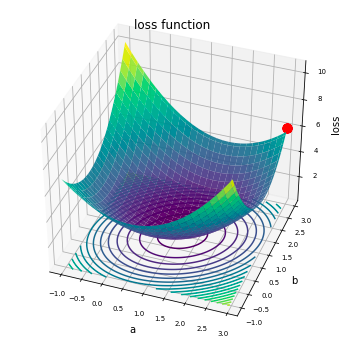
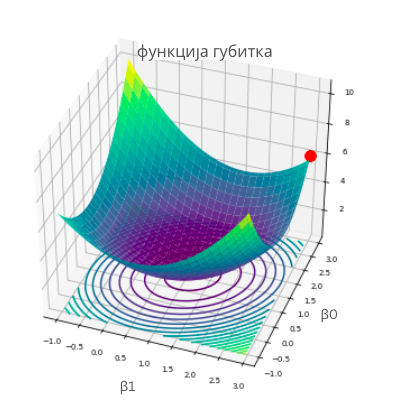
Popravke u lekciji Gradijentni spust

diff --git a/_sources/06_Linearna regresija/062_Gradijentni spust.rst b/_sources/06_Linearna regresija/062_Gradijentni spust.rst
@@ -4,18 +4,6 @@
 .. |open| image:: ../../_images/algk2.png
             :width: 100px
 
-.. |gsf1| image:: ../../_images/gsf1.png
-            :width: 180px
-
-.. |gsf2| image:: ../../_images/gsf2.png
-            :width: 180px
-
-.. |gsf3| image:: ../../_images/gsf3.png
-            :width: 180px
-
-.. |gsf0| image:: ../../_images/gsf0.png
-            :width: 180px
-
 .. infonote::
 
  У овој лекцији упознаћемо градијентни спуст, технику која нам помаже да пронађемо параметре за које функција средњеквадратне грешке има најмању 
@@ -32,14 +20,12 @@
     :width: 450
     :align: center
 
-(слика је преузета са https://creazilla.com/nodes/37642-river-flowing-through-the-mountains-clipart)
-
 -------
 
-Мало физичке активности у сред приче о линеарној регресији није на одмет, али наслућујеш да постоји још нешто. Функција срењеквадратне грешке 
-зависи од избора параметара ꞵ0 и ꞵ1 - за различите комбинације вредности ꞵ0 и ꞵ1 добијамо различите вредности грешке. Ако нацртамо график ове 
-функције, на пример, дуж x-осе забележимо вредности ꞵ0, дуж y-осе забележимо вредности ꞵ1, а дуж z-осе вредности грешке, добићемо график који 
-изгледа као на доњој слици. Ако црвеном тачком обележимо неки насумични избор параметара ꞵ0 и ꞵ1, да бисмо стигли до тачке за коју је вредност 
+Мало физичке активности у сред приче о линеарној регресији није на одмет, али наслућујеш да постоји још нешто. Функција средњеквадратне грешке 
+зависи од избора параметара :math:`\beta_0` и :math:`\beta_0` - за различите комбинације вредности :math:`\beta_0` и :math:`\beta_1` добијамо различите вредности грешке. 
+Ако нацртамо график ове функције, на пример, дуж x-осе забележимо вредности :math:`\beta_0`, дуж y-осе забележимо вредности :math:`\beta_1`, а дуж z-осе вредности грешке, добићемо график који 
+изгледа као на доњој слици. Ако црвеном тачком обележимо неки насумични избор параметара :math:`\beta_0` и :math:`\beta_1`, да бисмо стигли до тачке за коју је вредност 
 грешке најмања заиста морамо да се спустимо у подножје ове површи. Зато је ”техника” коју смо развили у претходном примеру врло релеванта. 
 Потребно је само да осмислимо како да тражимо најстрмије правце спуста. У томе ће нам помоћи изводи функција. 
 
@@ -49,24 +35,22 @@
 
 *График функције средњеквадратне грешке*
 
-**(ТОДО: прилагодити обележја а и б)**
-
 -------
 
 .. infonote::
 
  Најмања вредност једне функције се зове минимум. 
 
-Посматрајмо сада квадратну функција f(x) = (x-1)2 чији је график приказан на доњој слици и покушајмо да техником спуста стигнемо до њеног минимума - 
-он је у тачки x=1 и износи 0.  
+Посматрајмо сада квадратну функција :math:`f(x) = (x-1)^2` чији је график приказан на доњој слици и покушајмо да техником спуста стигнемо до њеног минимума - 
+он је у тачки :math:`x=1` и износи 0.  
 
 .. image:: ../../_images/gs3.png
     :width: 500
     :align: center
 
-Уочимо и црвену тачку која одговара вредности x=3 (насумично смо је одабрали) и која означава стартну позицију кретања ка минимуму ове функције. 
+Уочимо и црвену тачку која одговара вредности :math:`x=3` (насумично смо је одабрали) и која означава стартну позицију кретања ка минимуму ове функције. 
 Делује да је наранџастом линијом обележен најстрмији правац дуж кога можемо да започнемо спуст. Занимљиво је да ова линија заправо представља 
-тангенту наше функције у тачки x=3. Ако дуж овог правца направимо корак, наћи ћемо се у новој тачки. Обележимо и њену вредност црвеном бојом и 
+тангенту наше функције у тачки :math:`x=3`. Ако дуж овог правца направимо корак, наћи ћемо се у новој тачки. Обележимо и њену вредност црвеном бојом и 
 прикажимо је на графику. Она је мало ближе очекиваном минимуму.
 
 .. image:: ../../_images/gs4.png
@@ -79,31 +63,39 @@
     :width: 500
     :align: center
 
-Након одређеног броја корака, овај поступак ће нас довести до минимума функције тј. до тачке x=1.
+Након одређеног броја корака, овај поступак ће нас довести до минимума функције тј. до тачке :math:`x=1`.
 
 .. image:: ../../_images/gs6.png
     :width: 500
     :align: center
 
-У Google Coalb свесци која прати овај материјал можеш и сам да покренеш анимацију и увериш се да је тако. Довољно је да кликнеш на дугме |open| 
+|
+
+У Google Colab свесци која прати овај материјал можеш и сам да покренеш анимацију и увериш се да је тако. Довољно је да кликнеш на дугме |open| 
 и отвориш је. 
 
-Пре него што детаљније прођемо кроз поступак који смо описали, подсетимо се какве су то праве тангенте.  За неку фиксирану тачку x коефицијент 
-правца тангенте у тачки x једнак је вредности првог извода извода функције у тачки x. Први извод наше функције је функција f’(x) = 2x-2 и у 
-почетној тачки x=3 вредност извода је f’(x) = 4.  То значи да тангента има једначину y = 4x - 8 (број -8 смо добили из услова да ова права 
+|
+
+Пре него што детаљније прођемо кроз поступак који смо описали, подсетимо се какве су то праве тангенте.  За неку фиксирану тачку :math:`x` коефицијент 
+правца тангенте у тачки :math:`x` једнак је вредности првог извода извода функције у тачки :math:`x`. Први извод наше функције је функција :math:`f'(x) = 2x-2` и у 
+почетној тачки :math:`x=3` вредност извода је :math:`f'(x) = 4`.  То значи да тангента има једначину :math:`y = 4x - 8` (број -8 смо добили из услова да ова права 
 мора да садржи тачку (3, 4)).  Зато можемо и да кажемо да тангента има правац који одговара изводу функције у некој тачки, а за само кретање 
 у том правцу да је кретање дуж правца извода у тој тачки.  Сада је дилема, да ли се крећемо уз или низ  тј. да ли пратимо правац извода или 
 његов супротан правац? Па, пошто желимо да се спуштамо ка минимуму треба да пратимо правац супротан правцу извода функције. 
 
-Ако сада са x0 oбележимо почетну тачку, нову тачку x1 добили смо тако што смо направили корак дуж правца извода функције у тачки x0. Ако са α 
-обележимо дужину корака, вредност нове тачке  x1 израчунавамо као x1 = x0 - α f’(x0). Пошто поступак понављамо, вредност тачке x2  израчунавамо 
-као x2 = x1 - α f’(x1) и настављамо редом са израчунавањима x3 = x2 - α f’(x2),  x4 = x3 - α f’(x3), …  Поступак понављамо све док за две 
-узастопне вредности, рецимо за x34 и x35, вредности функције нису довољно близу тј. док апсолутна вредност разлике између f(x35) - f(x34) није мања од неке 
+|
+
+Ако сада са :math:`x_0` oбележимо почетну тачку, нову тачку :math:`x_1` добили смо тако што смо направили корак дуж правца извода функције у тачки :math:`x_0`. Ако са :math:`\alpha` 
+обележимо дужину корака, вредност нове тачке  :math:`x_1` израчунавамо као :math:`x_1 = x_0 - \alpha f'(x_0)`. Пошто поступак понављамо, вредност тачке :math:`x_2` израчунавамо 
+као :math:`x_2 = x_1 - \alpha f'(x_1)` и настављамо редом са израчунавањима :math:`x_3 = x_2 - \alpha f'(x_2)`,  :math:`x_4 = x_3 - \alpha f'(x_3)`, ...  Поступак понављамо све док за две 
+узастопне вредности, рецимо за :math:`x_34` и :math:`x_35`, вредности функције нису довољно близу тј. док апсолутна вредност разлике :math:`f(x_35) - f(x_34)` није мања од неке 
 унапред задате течности, рецимо 0.001. Тако рачунски можемо да се приближимо појму конвергенције у математици. 
 
-Вредност α коју смо увели се зове корак учења и представља врло важан параметар алгоритма који смо описали. Уколико су вредности за α много мале, 
-требаће нам пуно времена да стигнемо до минимума. Са друге стране ако су вредности за α много велике, може се десити да прескочимо минимум или 
-западнемо у цик-цак замку сталним какутањима око њега! Погледај доњу слику!
+|
+
+Вредност :math:`\alpha` коју смо увели се зове **корак учења** (енгл. *learning rate*) и представља врло важан параметар алгоритма који смо описали. 
+Уколико су вредности за :math:`\alpha` много мале, требаће нам пуно времена да стигнемо до минимума. Са друге стране ако су вредности за :math:`\alpha` много велике, може се десити да прескочимо минимум или 
+западнемо у цик-цак замку сталним скакутањима око њега! Погледај доњу слику!
 
 .. figure:: ../../_images/gs7.png
     :width: 780
@@ -123,16 +115,22 @@
 
 Оба ова понашања обавезно провери и сам у пратећој свесци користећи различита подешавања за корак учења у анимацији. 
 
+|
+
 Алгоритам који смо описали се зове **градијентни спуст** (енгл. *gradient descent*) и упркос својој једноставности представља један од најважнијих 
 алгоритма у машинском учењу јер омогућава проналажење најмање вредности функције грешке. Постоји много детаља у вези са овим алгоритмом у које 
 ми нећемо залазити а који се тичу особина функција на које овај алгоритам може успешно да се примени, нумеричког израчунавања извода и избора 
 корака учења. Сви они се морају размотрити приликом практичне примене алгоритма. 
+
+|
 
 Сам алгоритам није неугодно испрограмирати па ћемо се упустити у авантуру. Потребна нам је функција ``f`` која ће да рачуна вредност задате функције и 
 функција ``f_izvod`` која ће да израчунава вредност извода задате функције. Потребно је да дефинишемо и корак учења ``alfa`` и зауставне критеријуме: 
 поступак ћемо обуставити када вредности функције у двема узастопним итерацијама буду довољно близу (разлика њихових вредности је мања од неке 
 унапред задате тачности ``epsilon``) или када достигнемо неки коначан број итерација ``max_broj_iteracija`` (морамо да се осигурамо и у случајевима 
 неподесних избора корака учења).   
+
+|
 
 Следи блок са кодом. Алгоритам смо започели постављањем почетне тачке. Како тачка у којој се померимо алгоритмом градијентног спуста представља 
 почетну тачку наредног корака, за њихово обележавање у узастопним корацима користимо ознаке ``x_staro`` и ``x_novo``. Извештај који креирамо на крају 
@@ -152,48 +150,54 @@
  def f_izvod(x):
     return 2*x-2
 
-Након покретања функције gradijentni_spust за вредности аргумената ``x0 = 3``, ``alfa = 0.1``, ``epsilon = 0.001`` и ``max_broj_iteracija = 100`` добијамо 
-да је минимум функције број 1.0048 што можемо и да потврдимо. Код можеш и сам да извршиш и увериш се да се добија баш овај резулат. 
+Након покретања функције ``gradijentni_spust`` за вредности аргумената ``x0 = 3``, ``alfa = 0.1``, ``epsilon = 0.001`` и ``max_broj_iteracija = 100`` добијамо 
+да је минимум функције број 1.0048 што можемо и да потврдимо. Кôд можеш и сам да извршиш и увериш се да се добија баш овај резултат. 
 Не пропусти да испиташ и како се резултати мењају уколико се одаберу друге вредности аргумената.
 
-Сада можемо да се вратимо и на проблем проналажења параметара ꞵ0 и ꞵ1 линеарне регресије за коју вредност средњеквадратне грешке треба да има 
-најмању вредност. Функција средњеквадратне грешке је функција двеју променљивих - зависи и од вредности параметра ꞵ0 и од вредности параметра ꞵ1. 
-Када радимо са функцијама више променљивих, у општем случају са n променљивих x1, x2, x3,...,xn , извод који смо користили у алгоритму градијентног 
-спуста уопштавамо вектором извода - за сваку од променљивих израчунавамо појединачно изводе. Рецимо, за функцију |gsf0|, извод по променљивој x1 се 
-добија тако што се променљива x2 прогласи константом па потом примене стандардна правила за рачунање извода којa нас доводе до ½*2*x1=x1. 
-Са друге стране, извод по променљивој x2 се рачуна тако што се променљива x1 прогласи константом па примене стандардна правила за рачунање 
-извода. Сада добијамо ½*10*2*x2=10x2. Сада добијамо да је вектор извода по појединачним променљивама (такве изводе зовемо парцијалним) 
-вектор [x1, 10x2].  У математици, па и у машинском учењу, ови вектори се зову **градијенти** па отуда долази и име самог алгоритма. 
-За обележавање градијената се користи симбол троуглић надоле ∇ који се зове набла. Тако би прецизан запис градијента полазне функције 
-f био ∇f(x1,x2) = [x1, 10x2] и омогућавао би нам да пратимо дуж којих праваца извода појединачно треба да се крећемо приликом спуста. 
+|
 
-**TODO: сличица са правцима**
+Сада можемо да се вратимо и на проблем проналажења параметара :math:`\beta_0` и :math:`\beta_1` линеарне регресије за коју вредност средњеквадратне грешке треба да има 
+најмању вредност. Функција средњеквадратне грешке је функција двеју променљивих - зависи и од вредности параметра :math:`\beta_0` и од вредности параметра :math:`\beta_1`. 
+Када радимо са функцијама више променљивих, у општем случају са :math:`n` променљивих :math:`x_1`, :math:`x_2`, :math:`x_3`,...,:math:`x_n` , извод који смо користили у алгоритму градијентног 
+спуста уопштавамо вектором извода - за сваку од променљивих израчунавамо појединачно изводе. Рецимо, за функцију :math:`\frac{1}{2}(x_1^2+10x_2^2)`, извод по променљивој :math:`x_1` се 
+добија тако што се променљива :math:`x_2` прогласи константом па потом примене стандардна правила за рачунање извода којa нас доводе до :math:`\frac{1}{2} \cdot 2 \cdot x_1 = x_1`. 
+Са друге стране, извод по променљивој :math:`x_2` се рачуна тако што се променљива :math:`x_1` прогласи константом па примене стандардна правила за рачунање 
+извода. Сада добијамо :math:`\frac{1}{2} \cdot 10 \cdot 2 \cdot x_2 = 10\cdot x^2`. Сада добијамо да је вектор извода по појединачним променљивама (такве изводе зовемо парцијалним) 
+вектор :math:`[x_1, 10 \cdot x_2]`.  У математици, па и у машинском учењу, ови вектори се зову **градијенти** па отуда долази и име самог алгоритма. 
+За обележавање градијената се користи симбол троуглић надоле :math:`\nabla` који се зове набла. Тако би прецизан запис градијента полазне функције 
+:math:`f`` био :math:`\nabla f(x_1,x_2) = [x_1, 10\cdot x_2]` и омогућавао би нам да пратимо дуж којих праваца извода појединачно треба да се крећемо приликом спуста. 
 
-Остали кораци алгоритма градијентног спуста не разлику пуно за случај функција више променљивих. Како је сада решење које тражимо тачка у 
-дводимензионом простору, критеријум заустављања можемо да прилагодимо тако што ћемо узети у обзир еуклидско растојање између вредности 
-функција уместо њихове апсолутне разлике. 
+|
 
-Сада када разумемо и како градијентни спуст функционише за функције више променљивих вратимо се на израчунавање параметара ꞵ0 и ꞵ1. 
-Рекли смо да је једначина средњеквадратне грешке |gsf1|. Пошто је то функција за коју треба да пронађемо минимум, ако засучемо рукаве па проверимо, 
-добићемо да је извод средњеквадратне функције по  ꞵ0 баш |gsf2| и извод по ꞵ1 баш |gsf3|. Ови изводи нам указују дуж којих правада треба да се крећемо и 
-колико треба да коригујемо вредности за ꞵ0 и ꞵ1 у сваком кораку итерације градијентног спуста.
+Остали кораци алгоритма градијентног спуста се не разлику пуно за случај функција више променљивих: очекујемо да се алгоритам заустави након што се 
+оствари жељена тачност или након што се изврши одређени број итерација.
 
-У свесци можеш да видиш и како се ове вредности израчунавају кроз код, а потом и да прођеш кроз цео поступак прилагођеног градијентног спуста. 
-За скуп о некретнинама који смо увели, добиће се вредности ꞵ0=2.056 и ꞵ1=1.198.
+|
+
+Сада када разумемо и како градијентни спуст функционише за функције више променљивих вратимо се на израчунавање параметара :math:`\beta_0` и :math:`\beta_1`. 
+Рекли смо да је једначина средњеквадратне грешке :math:`\frac{1}{N}\sum_{i=1}^N{(y_i - (\beta_0 + \beta_1x_i))^2}`. Пошто је то функција за коју треба да пронађемо минимум, ако засучемо рукаве па проверимо, 
+добићемо да је извод средњеквадратне функције по  :math:`\beta_0` баш :math:`\frac{2}{N} \sum_{i=1}^{N}(\beta_0 + \beta_1x_i - y_i)` и извод по :math:`\beta_1` баш :math:`\frac{1}{N} \sum_{i=1}^{N}(\beta_0 + \beta_1x_i - y_i)\cdot x_i`. 
+Ови изводи нам указују дуж којих правада треба да се крећемо и 
+колико треба да коригујемо вредности за :math:`\beta_0` и :math:`\beta_1` у сваком кораку итерације градијентног спуста.
+
+|
+
+У свесци можеш да видиш и како се ове вредности израчунавају кроз кôд, а потом и да прођеш кроз цео поступак прилагођеног градијентног спуста. 
+За скуп о некретнинама који смо увели, стићи ћемо до вредности :math:`\beta_0=2.056` и :math:`\beta_0=1.198`.
+
+|
 
 Рекли смо да постоје одређени предуслови које функција треба да задовољи да би њен минимум могао да се пронађе техником градијентног спуста 
-(ако баш желиш да чујеш, потребно је да функција буде непрекидна и диференцијабилна). Важно је да знаш да се у општем случају на овај начин 
-достиже неки локални минимум. Рецимо, функција на доњој слици има неколико локалних минимума и само један глобални минимум. У неким случајевима, 
+(потребно је да функција буде диференцијабилна). Важно је да знаш и да се у општем случају на овај начин 
+достиже неки *локални минимум*. Рецимо, функција на доњој слици има неколико локалних минимума и само један *глобални минимум*. У неким случајевима, 
 рецимо када је функција конвексна, локални и глобални минимум се поклапају па увек стижемо до жељеног решења, глобалног минимума. Функција 
-средњеквадратне грешке је конвексна по поараметрима ꞵ0 и ꞵ1.
+средњеквадратне грешке је конвексна по параметрима :math:`\beta_0` и :math:`\beta_1`.
 
 .. figure:: ../../_images/gs10.png
     :width: 450
     :align: center
 
 *Локални и глобални минимум*
-
-(слика је преузета са https://vitalflux.com/local-global-maxima-minima-explained-examples/, **ТОДО: прилагодити обележја и натписе**)
 
 -------
 
